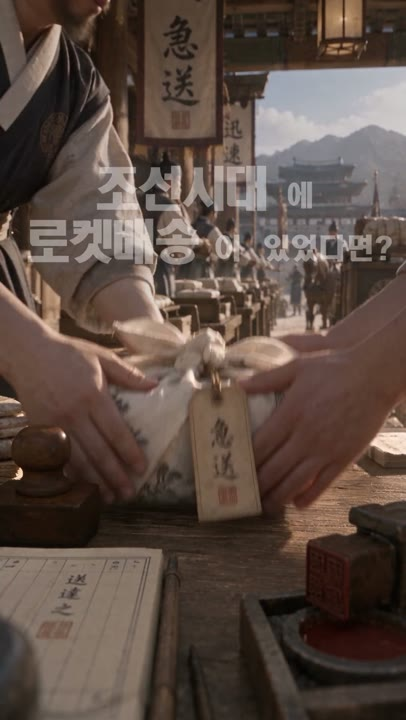
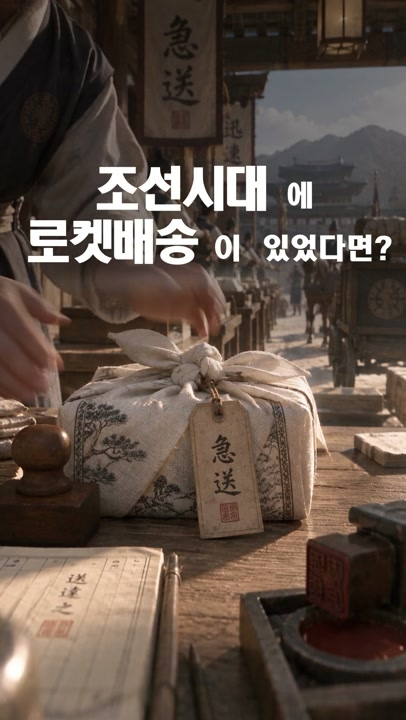
AI WORKS: sharper title-text frames for the 4 new 조선의 모든 것 thumbnails

diff --git a/ai-works-data.js b/ai-works-data.js
@@ -212,10 +212,10 @@ window.AI_WORKS = {
                 { title: "MIU MIU X 꽃신",       src: "videos/miumiu-kkotsin.mp4", poster: "videos/posters/miumiu-kkotsin.jpg", w: 1080, h: 1920 },
                 { title: "BVLGARI X 청자",       src: "videos/bulgari.mp4",        poster: "videos/posters/bulgari.jpg",        w: 1080, h: 1920 },
                 { title: "ZIPPO X 화로대",       src: "videos/zippo-hwarotae.mp4", poster: "videos/posters/zippo-hwarotae.jpg", w: 1080, h: 1920 },
-                { title: "조선의 종 치는 법",     src: "videos/joseon-bell.mp4",    poster: "videos/posters/joseon-bell.jpg",    w: 720,  h: 1280 },
-                { title: "기와가 쓰러지는 날",     src: "videos/joseon-domino.mp4",  poster: "videos/posters/joseon-domino.jpg",  w: 720,  h: 1280 },
-                { title: "조선의 빠른 배송",      src: "videos/joseon-rocket.mp4",  poster: "videos/posters/joseon-rocket.jpg",  w: 1080, h: 1920 },
-                { title: "조선의 자동판매기",     src: "videos/joseon-vending.mp4", poster: "videos/posters/joseon-vending.jpg", w: 1080, h: 1920 }
+                { title: "조선의 종 치는 법",     src: "videos/joseon-bell.mp4",    poster: "videos/posters/joseon-bell.jpg?v=2",    w: 720,  h: 1280 },
+                { title: "기와가 쓰러지는 날",     src: "videos/joseon-domino.mp4",  poster: "videos/posters/joseon-domino.jpg?v=2",  w: 720,  h: 1280 },
+                { title: "조선의 빠른 배송",      src: "videos/joseon-rocket.mp4",  poster: "videos/posters/joseon-rocket.jpg?v=2",  w: 1080, h: 1920 },
+                { title: "조선의 자동판매기",     src: "videos/joseon-vending.mp4", poster: "videos/posters/joseon-vending.jpg?v=2", w: 1080, h: 1920 }
             ]
         }
     },
